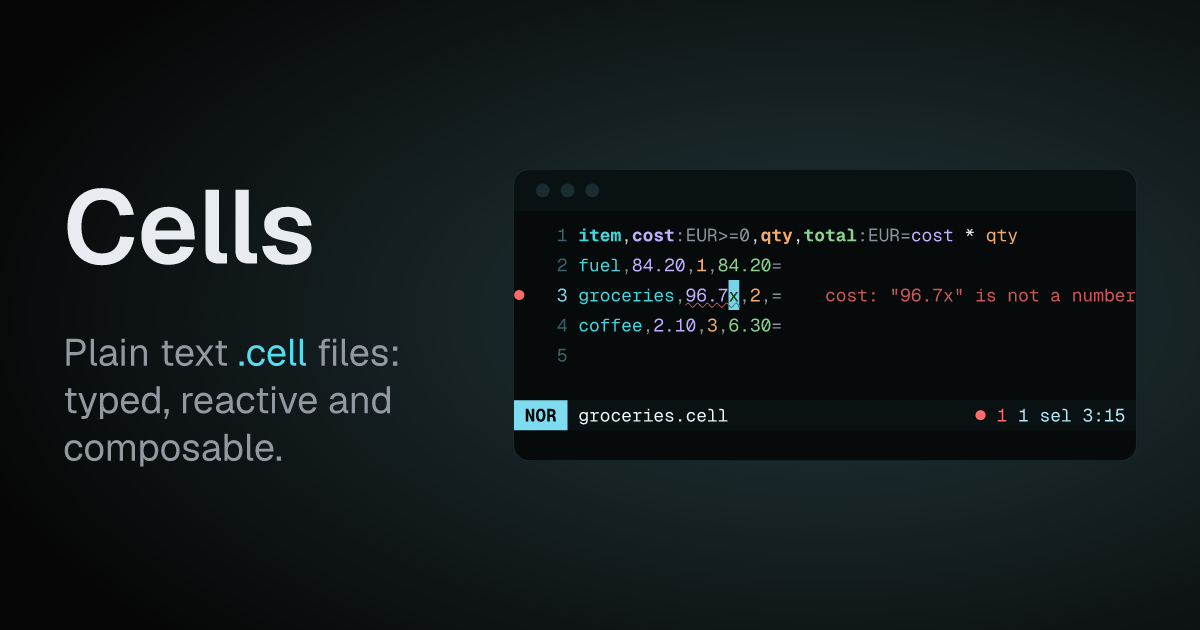
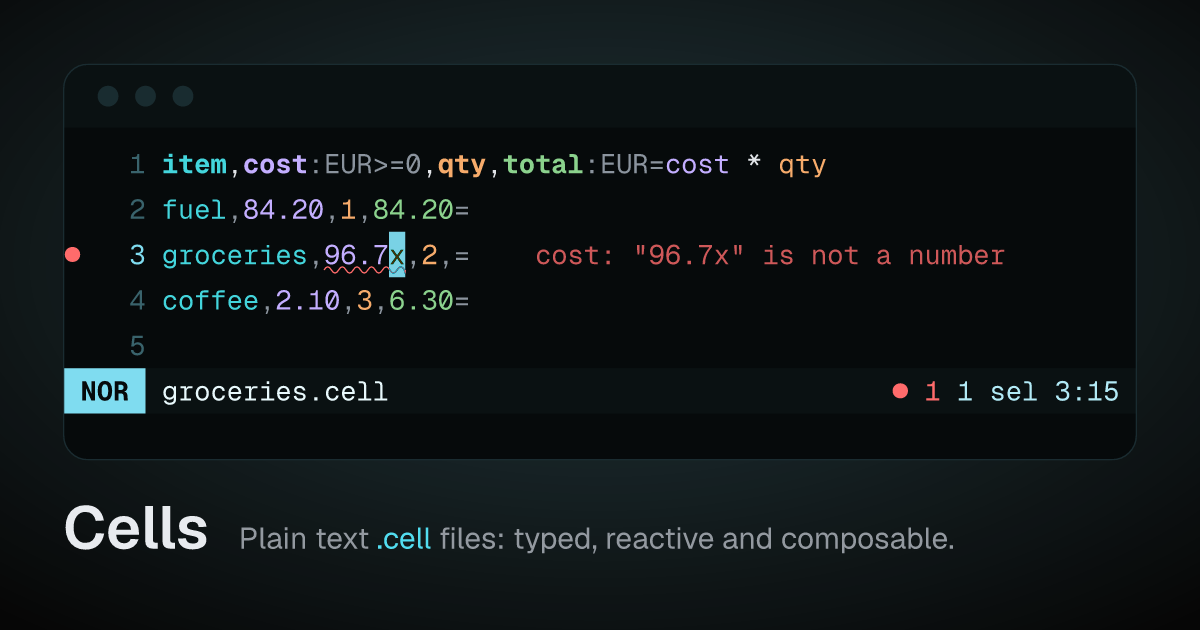
feat(web): the card's editor across its width

diff --git a/web/lib/og.ts b/web/lib/og.ts
@@ -287,6 +287,57 @@ export function ogWordmarkCard(card: OgCard): string {
   )
 }
 
+/** The type of a stacked card's row of words, px: the name, and the line beside it on
+ *  its baseline; and the gap between the still and the row. */
+export const OG_STACK = { title: 60, line: 30, between: 28, gap: 28 } as const
+
+/** A still across the card's width (an editor, a terminal), the name and the line in a
+ *  row under it: the thing itself first and as large as the card allows, what it is
+ *  called beneath. The still and the row are centred on the card's height, inside its
+ *  margin; a still too tall for it, or a line that will not fit beside the name,
+ *  screams. */
+export function ogStackCard(card: OgCard & { still: string }): string {
+  const width = OG.width - 2 * OG_PAD
+  const height = width * rootOf(card.still).ratio
+  const { title, line } = card.faces
+  const titleW = title.width(card.title) * OG_STACK.title
+  const room = width - titleW - OG_STACK.between
+  const lineLines = wrapWords(card.line, line, OG_STACK.line, room)
+  if (lineLines.length > 1)
+    throw new Error(
+      `og: the line takes ${lineLines.length} lines beside the name in ${Math.round(room)} px: say it shorter`,
+    )
+  const rowH = OG_STACK.title * (title.ascent + title.descent)
+  const blockH = height + OG_STACK.gap + rowH
+  const top = (OG.height - blockH) / 2
+  // Inside the card's margin, which X's 2:1 crop (15 px off each end) leaves whole.
+  if (top < OG_PAD)
+    throw new Error(
+      `og: the still and its row are ${Math.round(blockH)} px tall, more than the ${OG.height - 2 * OG_PAD} px inside the card's margin: give the still fewer rows or more columns`,
+    )
+  const baseline = top + height + OG_STACK.gap + OG_STACK.title * title.ascent
+  return svgOf(
+    `${ground(card.look, { x: OG.width / 2, y: top + height / 2 })}
+  ${placed(card.still, OG_PAD, top, width)}
+  ${wordsSvg(wrapWords([card.title], title, OG_STACK.title, titleW + 1), {
+    x: OG_PAD,
+    y: baseline,
+    size: OG_STACK.title,
+    leading: title.ascent + title.descent,
+    face: title,
+    ink: card.look.ink,
+  })}
+  ${wordsSvg(lineLines, {
+    x: OG_PAD + titleW + OG_STACK.between,
+    y: baseline,
+    size: OG_STACK.line,
+    leading: OG_TYPE.leading,
+    face: line,
+    ink: card.look.muted,
+  })}`,
+  )
+}
+
 /** The still's share of the card's width, and the gap between it and the words. */
 export const OG_STILL = { share: 0.52, gap: 48 } as const
 

diff --git a/web/scripts/og.ts b/web/scripts/og.ts
@@ -1,8 +1,9 @@
 // THE LINK PREVIEW: cellular.computer's card, `app/card.png` (lib/card), which
 // app/opengraph-image.ts serves as the og:image of every page, with its alt. Drawn
 // from the site's own parts through ui's: a `.cell` file in Helix as the hero shows it
-// (ui's terminal-editor still, its accent, the engine as its language server), beside
-// the product's name and subline (lib/product), on the dark theme's ground, the
+// (ui's terminal-editor still, its accent, the engine as its language server), across
+// the card, the product's name and subline (lib/product) in a row under it, on the
+// dark theme's ground, the
 // extension in its edge light (app/globals.css). The file is read by the engine and
 // what the card claims is asserted: its totals stored beside their `=`, the one typo
 // named on its row, nothing else. The PNG is kept in the tree; `--check` draws it again
@@ -21,7 +22,7 @@ import { ACCENT } from "@/components/hero"
 import { CARD_CELL, CARD_FILE } from "@/lib/card"
 import { cellsDiagnose } from "@/lib/diagnose"
 import { loadEngine } from "@/lib/engine-module"
-import { ogStillCard } from "@/lib/og"
+import { ogStackCard } from "@/lib/og"
 import { geistFiles, ogFace, rasterizeOg } from "@/lib/og-still"
 import { PRODUCT } from "@/lib/product"
 import { editorStill, renderEditorSvg } from "@/lib/terminal-editor-screen"
@@ -67,9 +68,12 @@ const screen = await editorStill({
     { kind: "place", ...TYPO, delay: 300 },
   ],
   progress: 1,
-  rows: 6,
-  // The typo's row, its message after it, to the screen's edge.
-  columns: 58,
+  // The file's four lines and the status line: as many as the card's height takes with
+  // the editor across its width.
+  rows: 5,
+  // The typo's row, its message after it, with room: the width the card's height
+  // leaves the editor at five rows.
+  columns: 66,
   diagnose: cellsDiagnose(engine),
   accent: ACCENT,
 })
@@ -119,7 +123,7 @@ const edge = themed("edge")
 const [before, after] = PRODUCT.subline.split(PRODUCT.extension) as [string, string]
 assert.ok(PRODUCT.subline.split(PRODUCT.extension).length === 2, "the subline names the extension once")
 const fonts = geistFiles()
-const card = ogStillCard({
+const card = ogStackCard({
   title: PRODUCT.name,
   line: [before, { text: PRODUCT.extension, ink: edge }, after],
   faces: { title: ogFace(fonts.sansSemiBold, "Geist"), line: ogFace(fonts.sans, "Geist") },
